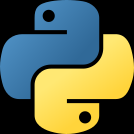
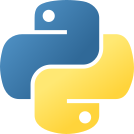
Transparent bg

diff --git a/hackprep-intro/hackprep-intro.html b/hackprep-intro/hackprep-intro.html
@@ -94,7 +94,7 @@
         </div>
 
     </div>
-    <img src="footer.png" width="80%" style="padding-bottom: 5vh">
+    <img src="https://github.com/VikingsDev/vd-email/raw/master/hackprep-intro/footer.png" width="80%" style="padding-bottom: 5vh">
 
 </div>
 
